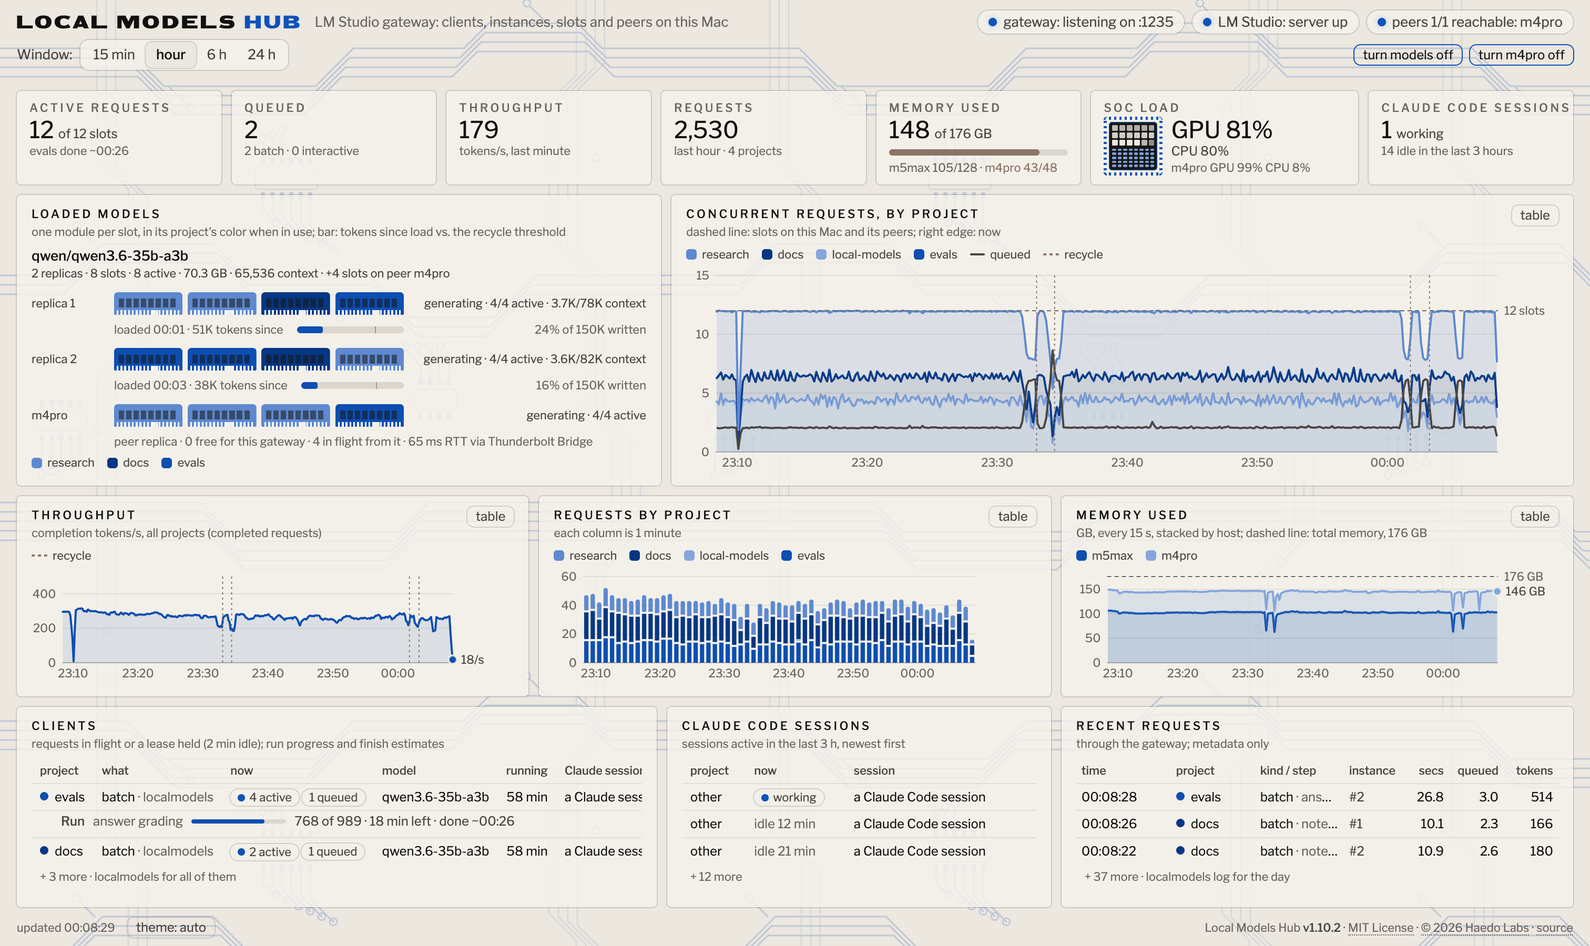
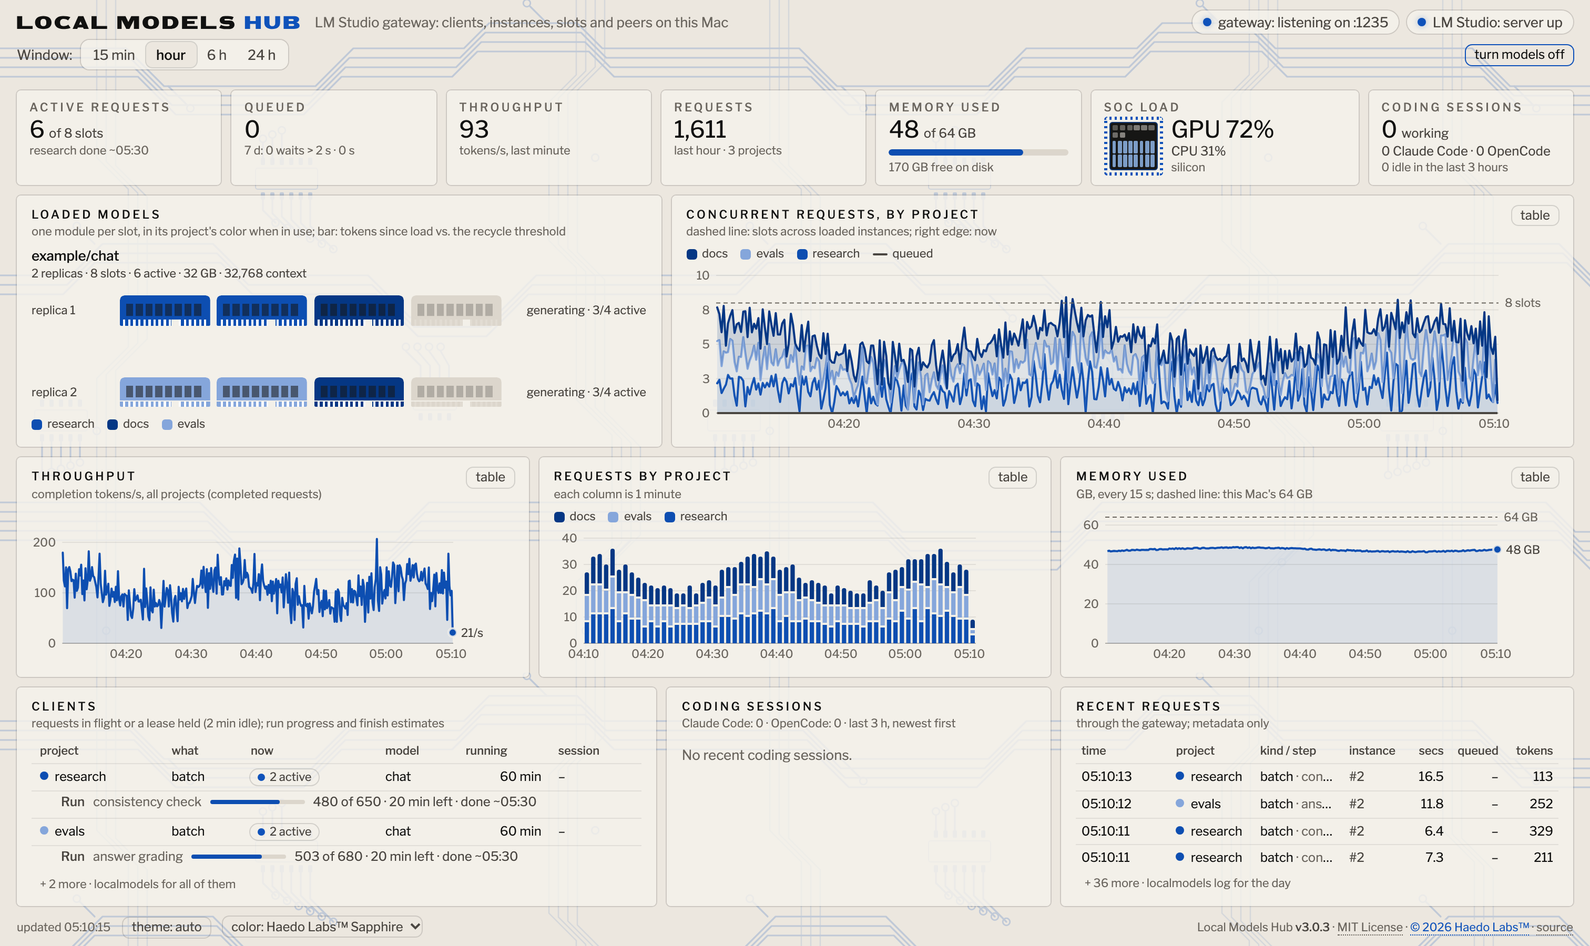
Keep the maker credit in sapphire across dashboard and menu appearances

diff --git a/localmodels/dash.html b/localmodels/dash.html
@@ -7,11 +7,11 @@
 <link rel="icon" type="image/png" sizes="64x64" href="/favicon.png"><link rel="apple-touch-icon" href="/apple-touch-icon.png">
 <style>
 :root {
-  /* Haedo Labs' design language: near-black, off-white, the shared grey and
+  /* The Haedo Labs™ design language: near-black, off-white, the shared grey and
      hairline, and sapphire, the one color. Every series is a step of sapphire (OKLab, its own hue, lighter or darker), ordered
      so neighbours differ most; "other" is a neutral. No red: states are told apart by words and position first; color only
      adds weight (warning in the shared beige-grey, critical in the strongest ink). The light theme is the same on paper.
-     Haedo Labs Sapphire is the default color; the footer's color setting can take the Mac's system accent or any color
+     Sapphire is the default color; the footer's color setting can take the Mac's system accent or any color
      instead, and then every step below is drawn again from it (applyAccent): same lightness, its hue and chroma. */
   color-scheme: light;
   --plane: #ece7df; --surface: rgba(244,241,236,0.82); --ink: #111110; --ink-2: #4a4641; --muted: #6b665f;
@@ -21,10 +21,12 @@
   --other: #b5afa5; --good: #0f52ba; --warning: #8a7466; --serious: #7a6a5f; --critical: #111110; --good-text: #0d4eb1;
   --pin: #0f52ba; --die: #161615; --core: 236,231,223; --gpu: 135,172,232; --glow: rgba(15,82,186,0.35); --pcb: .2;
   --brand: #0f52ba; --brand-edge: rgba(15,82,186,0.55);   /* the color itself: the name's HUB, the board, a die's edge */
+  --maker-text: #0f52ba;   /* the maker keeps sapphire when the dashboard accent changes */
 }
 @media (prefers-color-scheme: dark) {
   :root:where(:not([data-theme="light"])) {
     color-scheme: dark;
+    --maker-text: #3879e4;
     --plane: #111110; --surface: rgba(22,22,21,0.8); --ink: #ece7df; --ink-2: #b5afa5; --muted: #8d867c;
     --grid: rgba(236,231,223,0.07); --axis: rgba(236,231,223,0.26); --ring: #262522; --hover: rgba(236,231,223,0.05); --track: #242320;
     --s1: #4578ce; --s2: #bad3f9; --s3: #0f52ba; --s4: #87ace8; --s5: #6692db; --s6: #ccdffe; --s7: #225ec0; --s8: #5e5a54;
@@ -35,6 +37,7 @@
 }
 :root[data-theme="dark"] {
   color-scheme: dark;
+  --maker-text: #3879e4;
   --plane: #111110; --surface: rgba(22,22,21,0.8); --ink: #ece7df; --ink-2: #b5afa5; --muted: #8d867c;
   --grid: rgba(236,231,223,0.07); --axis: rgba(236,231,223,0.26); --ring: #262522; --hover: rgba(236,231,223,0.05); --track: #242320;
   --s1: #4578ce; --s2: #bad3f9; --s3: #0f52ba; --s4: #87ace8; --s5: #6692db; --s6: #ccdffe; --s7: #225ec0; --s8: #5e5a54;
@@ -267,7 +270,8 @@ footer { color: var(--muted); font-size: 11px; display: flex; flex-wrap: wrap; g
 footer b { color: var(--ink-2); font-weight: 500; }
 #about { margin-left: auto; text-align: right; white-space: nowrap; }
 #about a { color: inherit; text-decoration: none; border-bottom: 1px dotted currentColor; }
-#about a:hover { color: var(--ink-2); }
+#about a:not(.maker):hover { color: var(--ink-2); }
+#about .maker { color: var(--maker-text); background: var(--plane); }
 </style>
 </head>
 <body>
@@ -315,7 +319,7 @@ footer b { color: var(--ink-2); font-weight: 500; }
     <article class="card"><h2>Recent requests</h2><div class="hint">through the gateway; metadata only</div><div class="body" id="recent"></div></article>
   </section>
 
-  <footer><span id="foot-left"><span id="clock" class="muted"></span><button class="btn" id="theme" title="Light, dark or the Mac's setting">theme: auto</button><select id="accent" title="The dashboard's color: Haedo Labs Sapphire, the Mac's system accent (System Settings > Appearance), or a color of your own" aria-label="Color"><option value="sapphire">color: Haedo Labs Sapphire</option><option value="system">color: system accent</option><option value="own">color: your own</option></select><input type="color" id="accent-own" value="#0f52ba" title="Your own color" aria-label="Your own color" hidden></span><span id="about"></span></footer>
+  <footer><span id="foot-left"><span id="clock" class="muted"></span><button class="btn" id="theme" title="Light, dark or the Mac's setting">theme: auto</button><select id="accent" title="The dashboard's color: Haedo Labs™ Sapphire, the Mac's system accent (System Settings > Appearance), or a color of your own" aria-label="Color"><option value="sapphire">color: Haedo Labs™ Sapphire</option><option value="system">color: system accent</option><option value="own">color: your own</option></select><input type="color" id="accent-own" value="#0f52ba" title="Your own color" aria-label="Your own color" hidden></span><span id="about"></span></footer>
 </div>
 <div id="tip"></div>
 <script>
@@ -1083,7 +1087,11 @@ function renderAbout() {                // the one footer line: version, license
     const link = (href, text) => el('a', {href, target: '_blank', rel: 'noopener noreferrer'}, text);
     const bits = [el('span', {}, (ab.name || 'Local Models Hub') + ' ', el('b', {}, 'v' + ab.version))];
     if (ab.license) bits.push(ab.source ? link(ab.source.replace(/\/$/, '') + '/blob/main/LICENSE', ab.license) : ab.license);
-    if (ab.copyright) bits.push(ab.copyright_url ? link(ab.copyright_url, ab.copyright) : ab.copyright);
+    if (ab.copyright) {
+      const credit = ab.copyright_url ? link(ab.copyright_url, ab.copyright) : el('span', {}, ab.copyright);
+      credit.className = 'maker';
+      bits.push(credit);
+    }
     if (ab.source) bits.push(link(ab.source, 'source'));
     $('about').replaceChildren(...bits.flatMap((b, i) => i ? [' · ', b] : [b]));
   }
@@ -1322,7 +1330,7 @@ $('theme').addEventListener('click', () => {
   guard('charts', renderCharts);
 });
 try { const t = localStorage.getItem('lm-theme'); if (t) applyTheme(t); } catch (e) {}
-// ---- the color: Haedo Labs Sapphire by default, or the Mac's system accent (/hub/accent), or one's own. Any other color
+// ---- the color: sapphire by default, or the Mac's system accent (/hub/accent), or one's own. Any other color
 // redraws every sapphire step: each keeps its OKLab lightness (the contrast the palette was measured for) and takes the new
 // color's hue, its chroma scaled by the new color's against sapphire's, pulled in until it is a real sRGB color.
 const SAPPHIRE = '#0f52ba';

diff --git a/app/tests/main.swift b/app/tests/main.swift
@@ -260,5 +260,28 @@ t("a hub alert added at the top: one item inserted, every item after it the same
 keeper.sync(real, specs(after.lines) + footer)
 t("...and gone again: the item removed, the rest kept", ids(real) == before)
 
+let creditMenu = NSMenu()
+keeper.sync(creditMenu, [.about(version: "1.2.3")])
+let creditItem = creditMenu.items[0]
+let title = "Local Models Hub 1.2.3 · By Haedo Labs™."
+let maker = (title as NSString).range(of: "By Haedo Labs™.")
+let ink = creditItem.attributedTitle?.attribute(.foregroundColor, at: maker.location, effectiveRange: nil) as? NSColor
+let signInk = creditItem.attributedTitle?.attribute(.foregroundColor, at: NSMaxRange(maker) - 1, effectiveRange: nil) as? NSColor
+t("the menu credit includes the mark and colors only the maker", creditItem.title == title
+  && ink != nil && ink == signInk && creditItem.attributedTitle?.attribute(.foregroundColor, at: 0, effectiveRange: nil) == nil)
+t("the credit opens the maker's site", creditItem.isEnabled && (creditItem.representedObject as? Box)?.action == .openMaker)
+for (appearance, expected) in [(NSAppearance.Name.aqua, [15, 82, 186]), (.darkAqua, [56, 121, 228])] {
+    var rgb: [Int] = []
+    NSAppearance(named: appearance)?.performAsCurrentDrawingAppearance {
+        if let color = ink?.usingColorSpace(.sRGB) {
+            rgb = [color.redComponent, color.greenComponent, color.blueComponent].map { Int(($0 * 255).rounded()) }
+        }
+    }
+    t("the maker uses sapphire in \(appearance.rawValue)", rgb == expected)
+}
+keeper.sync(creditMenu, [Spec(line: Line(title: "Open dashboard", action: .openDashboard, indent: 0))])
+t("a reused item loses the maker's styling", creditMenu.items[0] === creditItem
+  && creditItem.title == "Open dashboard" && creditItem.attributedTitle == nil)
+
 print("\(results.filter { $0 }.count) of \(results.count) ok")
 exit(results.allSatisfy { $0 } ? 0 : 1)

diff --git a/app/Menu.swift b/app/Menu.swift
@@ -8,7 +8,21 @@ struct Spec {
     var line: Line? = nil                                 // nil: a separator
     var key = ""
     var on = false
+    var attributedTitle: NSAttributedString? = nil
     var kind: Kind { line == nil ? .separator : line!.children.isEmpty ? .line : .submenu }
+
+    private static let makerInk = NSColor(name: nil) { appearance in
+        appearance.bestMatch(from: [.darkAqua, .aqua]) == .darkAqua
+            ? NSColor(srgbRed: 56/255, green: 121/255, blue: 228/255, alpha: 1)
+            : NSColor(srgbRed: 15/255, green: 82/255, blue: 186/255, alpha: 1)
+    }
+
+    static func about(version: String) -> Spec {
+        let name = "Local Models Hub" + (version.isEmpty ? "" : " \(version)")
+        let credit = NSMutableAttributedString(string: name + " · ")
+        credit.append(NSAttributedString(string: "By Haedo Labs™.", attributes: [.foregroundColor: makerInk]))
+        return Spec(line: Line(title: credit.string, action: .openMaker, indent: 0), attributedTitle: credit)
+    }
 }
 
 /// A glance's lines as menu items, each separator an item of its own.
@@ -42,7 +56,9 @@ final class MenuKeeper {
     /// One item set to its line, each property only when it differs (setting one redraws the item).
     func set(_ m: NSMenuItem, _ w: Spec) {
         guard let l = w.line else { return }
+        if w.attributedTitle == nil && m.attributedTitle != nil { m.attributedTitle = nil }
         if m.title != l.title { m.title = l.title }
+        if let title = w.attributedTitle, m.attributedTitle != title { m.attributedTitle = title }
         let tip: String? = l.tooltip.isEmpty ? nil : l.tooltip
         if m.toolTip != tip { m.toolTip = tip }
         if (m.representedObject as? Box)?.action != l.action { m.representedObject = Box(l.action) }

diff --git a/app/main.swift b/app/main.swift
@@ -174,7 +174,7 @@ final class Hub: NSObject, NSApplicationDelegate, NSMenuDelegate, UNUserNotifica
             Spec(line: Line(title: "Open dashboard", action: .openDashboard, indent: 0), key: "d"),
             Spec(line: Line(title: "Launch at login", action: .toggleLogin, indent: 0), on: SMAppService.mainApp.status == .enabled),
             Spec(),
-            Spec(line: Line(title: "Local Models Hub" + (g.version.isEmpty ? "" : " \(g.version)") + " · Haedo Labs", indent: 0)),
+            .about(version: g.version),
             Spec(line: Line(title: "Quit", action: .quit, indent: 0), key: "q"),
         ])
     }
@@ -196,6 +196,7 @@ final class Hub: NSObject, NSApplicationDelegate, NSMenuDelegate, UNUserNotifica
         switch action {
         case .none: break
         case .openDashboard: openDashboard()
+        case .openMaker: NSWorkspace.shared.open(URL(string: "https://haedolabs.com/")!)
         case .toggleLogin: toggleLogin()
         case .quit: NSApp.terminate(nil)
         case .startGateway:

diff --git a/app/Glance.swift b/app/Glance.swift
@@ -7,7 +7,7 @@ import Foundation
 enum Icon: Equatable { case serving, idle }            // serving: some slot can take a request; idle: off, down or none loaded
 
 enum Action: Equatable {
-    case none, openDashboard, startGateway, toggleLogin, quit
+    case none, openDashboard, openMaker, startGateway, toggleLogin, quit
     case local(on: Bool)                                // POST /hub/on or /hub/off
     case peer(name: String, on: Bool)                   // POST /hub/link/on or /hub/link/off with {"peer": name}
     case extOpen(ext: String, url: String)              // an extension's page, on its own origin, in the browser

diff --git a/tests/test_code.py b/tests/test_code.py
@@ -383,8 +383,8 @@ def main():
         t('every name it calls or passes as a callback is defined in the page or by the browser', not missing, ', '.join(missing))
         t("a peer that is not up: the peers chip says why, since when and when the next poll comes, and a poll-now button posts /hub/link",
           'id="poll-now"' in page and "fetch('/hub/link', {method: 'POST'})" in page and 'next poll in' in page and 'p.since' in page and 'p.why' in page)
-        t("the color setting: Haedo Labs Sapphire is the default, with the system accent (/hub/accent) and one's own color, kept per browser",
-          '<option value="sapphire">color: Haedo Labs Sapphire</option>' in page and "fetch('/hub/accent')" in page and 'type="color" id="accent-own"' in page
+        t("the color setting: Haedo Labs™ Sapphire is the default, with the system accent (/hub/accent) and one's own color, kept per browser",
+          '<option value="sapphire">color: Haedo Labs™ Sapphire</option>' in page and "fetch('/hub/accent')" in page and 'type="color" id="accent-own"' in page
           and "localStorage.setItem('lm-accent'" in page and 'style="fill: var(--brand)"' in page)
         t('the check catches the kind of slip it is for (a helper removed while still passed as a callback)',
           js_undefined('<script>function a(xs) { return xs.map(short).join(", "); }</script>') == ['short'])

diff --git a/localmodels/web.py b/localmodels/web.py
@@ -36,7 +36,7 @@ _mem = collections.deque(maxlen=24 * 60 * 4)            # (time, GB used here, {
 
 # ---------------------------------------------------------------- the Mac's accent color
 # AppleAccentColor as System Settings > Appearance writes it, with the sRGB value macOS draws for it (controlAccentColor);
-# no key is Multicolor, which draws blue. The page offers it beside Haedo Labs Sapphire, its default, and a color of one's own.
+# no key is Multicolor, which draws blue. The page offers it beside Haedo Labs™ Sapphire, its default, and a color of one's own.
 ACCENTS = {-1: ('Graphite', '#989898'), 0: ('Red', '#e0383e'), 1: ('Orange', '#f7821b'), 2: ('Yellow', '#ffc726'),
            3: ('Green', '#62ba46'), 4: ('Blue', '#007aff'), 5: ('Purple', '#953d96'), 6: ('Pink', '#f74f9e')}
 

diff --git a/localmodels/dash.py b/localmodels/dash.py
@@ -27,7 +27,7 @@ def _fg(rgb, n):
     return '38;2;%d;%d;%d' % rgb if TRUE else f'38;5;{n}'
 
 
-# Haedo Labs' palette, as on the dashboard: sapphire and its steps, the shared beige-grey, off-white, the hairline grey.
+# The Haedo Labs™ palette, as on the dashboard: sapphire and its steps, the shared beige-grey, off-white, the hairline grey.
 # The letters keep their old roles: g good, y warning, r critical (off-white: no red), c the accent, m Claude, b rules.
 C = dict(g=_fg((135, 172, 232), 110), y=_fg((188, 164, 150), 181), r=_fg((236, 231, 223), 255), c=_fg((69, 120, 206), 68),
          m=_fg((169, 198, 244), 153), b=_fg((94, 90, 84), 240), w=_fg((236, 231, 223), 255), B='1', d='2', R='7')

diff --git a/AGENTS.md b/AGENTS.md
@@ -1,5 +1,7 @@
 # local-models hub
 
+Write the maker's display name as **Haedo Labs™** in the app, plugin metadata, and documentation. Link the whole byline. Maker credits stay sapphire on paper (`#0f52ba`) and dark (`#3879e4`) when the dashboard or Mac accent changes.
+
 A gateway on `localhost:1235` in front of LM Studio, shared by projects and coding sessions on the Mac: admission control across all clients, per-request attribution by project and session, model replicas kept loaded, crash reloads and pre-emptive recycling, read-only local agents, and one dashboard. The repo is also a Claude Code plugin and its own marketplace. The guide for clients is [GUIDE.md](GUIDE.md); the overview is [README.md](README.md).
 
 ## Layout
@@ -30,7 +32,7 @@ A gateway on `localhost:1235` in front of LM Studio, shared by projects and codi
 - Standard library only, Python 3.9 or later. No dependencies.
 - Never stop LM Studio's server. Never unload or reload a model another run is using (`localmodels swapcheck`). Never put a prompt, a completion or a file's contents in the hub's records.
 - Precise technical terms in anything a person reads (the dashboard, CLI output, error messages, MCP tool text): its readers are engineers. Name things by what they are (gateway, instance, replica, slot, admission queue, lease, recycle), not by metaphor ("door", "keeper").
-- The look is Haedo Labs': near-black `#111110`, off-white `#ece7df`, the grey `#8d867c`, the hairline `#262522`, and Haedo Labs Sapphire `#0f52ba` as the one color (light theme: the same on off-white paper); it is the default of the dashboard's color setting, which can take the Mac's system accent (`/hub/accent`) or a color of one's own instead (`applyAccent` in dash.html redraws every step from it). Series and project colors are steps of sapphire (its OKLab hue, lighter or darker, neighbours apart); "other" is a neutral. Type is Libre Franklin, 400 and 500 only (served by the gateway, SIL OFL), small labels in tracked capitals; the name is drawn as outlines. Behind it, a faint circuit board in sapphire (`localmodels/pcb.svg`, one seamless tile drawn by `tools/pcb.py`). No red anywhere: states are told apart by words and position first, warning in the beige-grey `#bca496`, critical in the strongest ink; the terminal dash uses the same palette. Motion is slow and subtle and stops under reduced motion. Colors come from the theme tokens, never literals.
+- The Haedo Labs™ palette is near-black `#111110`, off-white `#ece7df`, the grey `#8d867c`, the hairline `#262522`, and sapphire `#0f52ba` as the one color (light theme: the same on off-white paper); sapphire is the default of the dashboard's color setting, which can take the Mac's system accent (`/hub/accent`) or a color of one's own instead (`applyAccent` in dash.html redraws every step from it). Series and project colors are steps of sapphire (its OKLab hue, lighter or darker, neighbours apart); "other" is a neutral. Type is Libre Franklin, 400 and 500 only (served by the gateway, SIL OFL), small labels in tracked capitals; the name is drawn as outlines. Behind it, a faint circuit board in sapphire (`localmodels/pcb.svg`, one seamless tile drawn by `tools/pcb.py`). No red anywhere: states are told apart by words and position first, warning in the beige-grey `#bca496`, critical in the strongest ink; the terminal dash uses the same palette. Motion is slow and subtle and stops under reduced motion. Colors come from the theme tokens, never literals.
 - Commit only this repo's files. Nothing personal, no other project's name, no narration in anything committed; local notes go in a `*.local.md` file beside this one, which git ignores; when it is here, its "Now" section says what is open on this machine.
 - **Commit** means commit the intended changes and run `localmodels commit`: the local release gets the next `X.Y.Z` patch number and tag `vX.Y.Z`. Use `--version X.Y.Z` for an explicit version. Install the tagged checkout on this Mac.
 - **Push** means `localmodels push` (`publish` is an alias): run the sandbox tests, `claude plugin validate`, and the privacy and secrets checks, then send the existing tagged commit and its tag to GitHub atomically. Only an explicit push or publish request authorizes this. Git's signing settings apply to commits and tags. `localmodels install` maintains the pre-push hook for plain Git pushes too. The repository runs nothing on GitHub (no Actions or install scripts).

diff --git a/docs/reference.md b/docs/reference.md
@@ -4,7 +4,7 @@ The full reference. The overview is [README.md](../README.md); the rules for cli
 
 ## Dashboard
 
-Close-ups from the same run.
+Close-ups from an earlier hour-long demo with 12 slots.
 
 <img src="models-dark.png" alt="Loaded models card: qwen/qwen3.6-35b-a3b, two replicas with 4 slots each and 4 slots on the peer m4pro, every slot a memory module in its project's color; replica 1 at 24% and replica 2 at 16% of 150K tokens written; the peer at 41 ms round-trip time via Thunderbolt Bridge">
 
@@ -100,7 +100,7 @@ A front switches a peer's local models off and on the same way: `localmodels pee
   - 15-minute to 24-hour series of concurrency, throughput, requests and memory (stacked by host);
   - crashes and recycles marked on the time series (the full record: `localmodels crashes`);
   - a line while the hub has recorded an error in the last 10 minutes (the full record: `localmodels errors`).
-  - one color, Haedo Labs Sapphire (`#0f52ba`) by default; the footer's color setting takes the Mac's system accent (System Settings > Appearance) or a color of one's own instead, and every series step is drawn again from it (same OKLab lightness, its hue and chroma). The choice is kept per browser.
+  - one color, Haedo Labs™ Sapphire (`#0f52ba`) by default; the footer's color setting takes the Mac's system accent (System Settings > Appearance) or a color of one's own instead, and every series step is drawn again from it (same OKLab lightness, its hue and chroma). The choice is kept per browser.
 - **Screenshot mode and a demo workload.** `localmodels present on [for 2h] [show a,b]` shows the named projects (by default the demo's and the hub's own) by name and every other project as "other" on every screen until it ends: no script names, batch names, session titles, or error details. `localmodels demo [--minutes 60]` runs three generic projects' batches over records it makes up (no file is read), with enough requests at once to fill every slot, this Mac's and its peers', plus two waiting. `localmodels pictures [--out docs] [--dry]` then makes the README's pictures: headless Chrome with a profile of its own draws the dashboard at 1512 × 900 and 1728 × 1117, at 2x, dark and light, and cuts the close-ups along boxes the page measures itself (`?rects`); it runs only in screenshot mode with at least 5 minutes left. The pictures above were made with all three.
 - **JSON endpoints:** `/hub/health`, `/hub/status`, `/hub/snapshot`, `/hub/history`, `/hub/recent`, `/hub/accent` (the Mac's system accent color), `/hub/errors`, `/hub/runs` (the runs going on, every phase estimated; `POST` declares a run's plan), `/hub/peer` (this Mac's report as a peer), `/hub/link` (this Mac's view of its peers; `POST` polls them now) and `/hub/extensions` (the extensions, each menu answering or not, with its summary and alerts); `POST /hub/off` and `POST /hub/on` switch the local models off and on; `POST /hub/link/off` and `POST /hub/link/on` (`{"peer": <name>}`) switch a peer's; `POST /hub/extensions/run` (`{"id", "verb"}`) runs one of the verbs an extension's manifest lists (the dashboard's **start**).
 - `/hub/snapshot` and `localmodels dash --json` list both clients in `sessions`. Each row's `source` is `Claude Code` or `OpenCode`; the existing `claude` list contains only Claude Code rows. MCP `status` reports `working` and `idle` counts under `claude_sessions` and `opencode_sessions`.
@@ -331,4 +331,4 @@ Send every request through the gateway, never to port 1234. Hold a lease for a r
 
 ## License
 
-MIT, © 2026 [Haedo Labs](https://haedolabs.com); see [LICENSE](../LICENSE). The dashboard's typeface, Libre Franklin, is under the SIL Open Font License 1.1 ([localmodels/libre-franklin-OFL.txt](../localmodels/libre-franklin-OFL.txt)).
+MIT, © 2026 [Haedo Labs™](https://haedolabs.com); see [LICENSE](../LICENSE). The dashboard's typeface, Libre Franklin, is under the SIL Open Font License 1.1 ([localmodels/libre-franklin-OFL.txt](../localmodels/libre-franklin-OFL.txt)).

diff --git a/README.md b/README.md
@@ -1,16 +1,16 @@
 # <img src="docs/icon.png" alt="" width="32" height="32"> Local Models Hub
 
-By [Haedo Labs](https://haedolabs.com)™.
+[By Haedo Labs™.](https://haedolabs.com)
 
 A gateway in front of LM Studio for programs, Claude Code sessions, and OpenCode sessions that share local models on a Mac.
 
 <picture>
   <source media="(prefers-color-scheme: dark)" srcset="docs/dashboard-dark.png">
   <source media="(prefers-color-scheme: light)" srcset="docs/dashboard-light.png">
-  <img alt="The dashboard during a synthetic workload: every slot in use, two requests queued, the requests by project over an hour, and each client's run with its finish time" src="docs/dashboard-light.png">
+  <img alt="Three example projects use six of eight model slots. Charts show concurrency, throughput, requests, and memory over an hour." src="docs/dashboard-light.png">
 </picture>
 
-The dashboard during `localmodels demo`, a synthetic workload.
+The dashboard with simulated requests from three projects.
 
 ## Why
 
@@ -84,4 +84,4 @@ For maintainers: `localmodels commit` versions and tags committed changes locall
 
 ## License
 
-MIT, © 2026 [Haedo Labs](https://haedolabs.com); see [LICENSE](LICENSE). The dashboard's typeface, Libre Franklin, is under the SIL Open Font License 1.1.
+MIT, © 2026 [Haedo Labs™](https://haedolabs.com); see [LICENSE](LICENSE). The dashboard's typeface, Libre Franklin, is under the SIL Open Font License 1.1.
